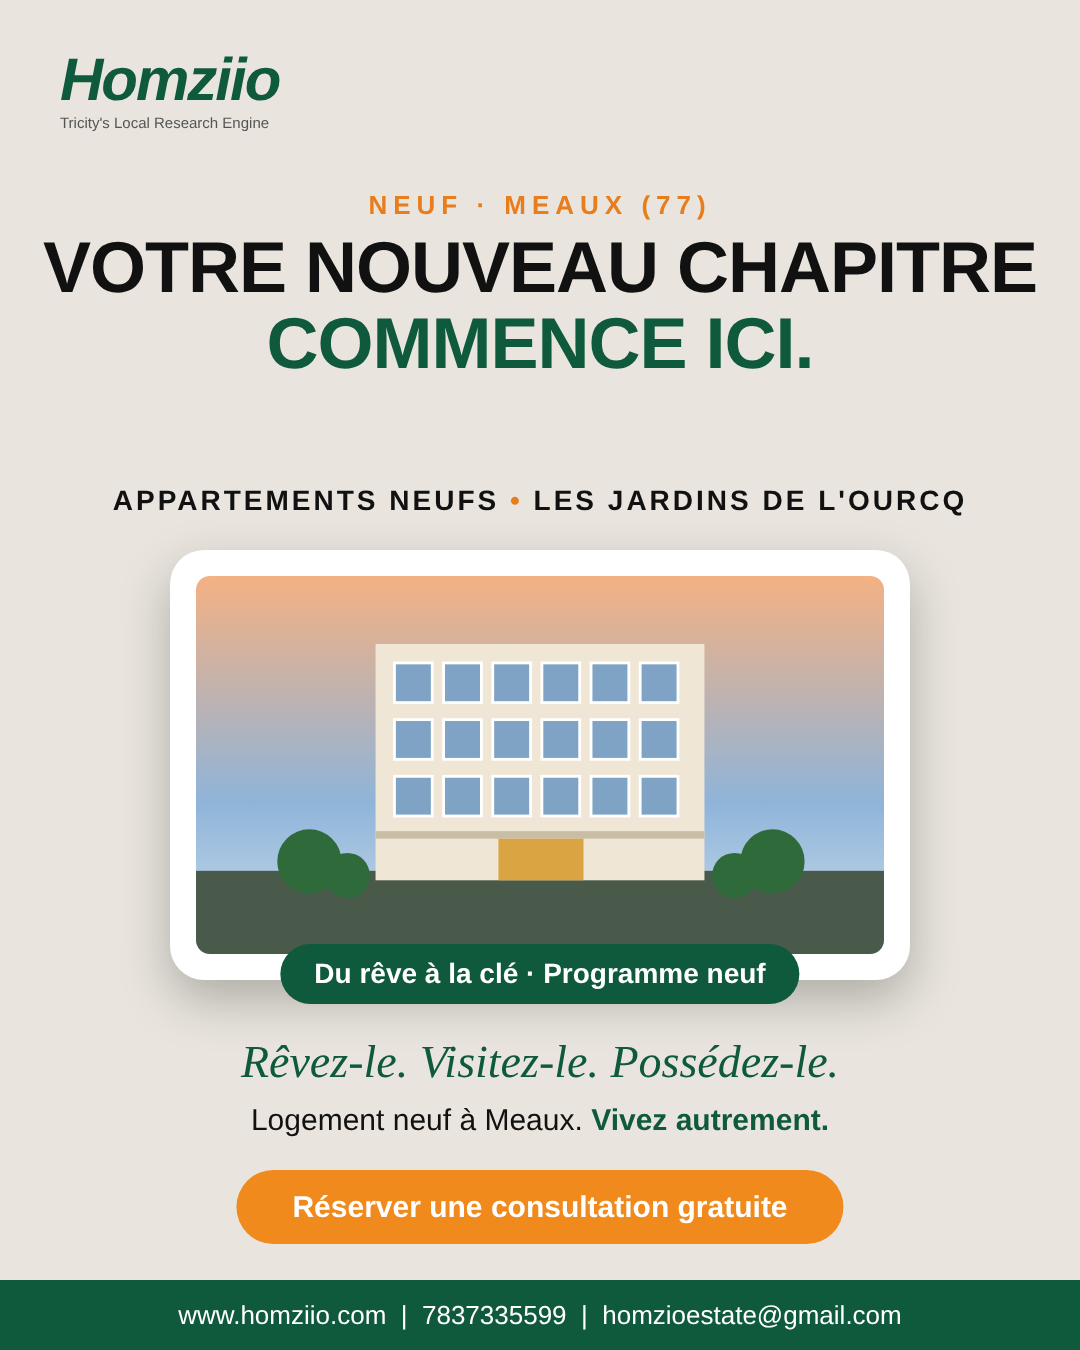
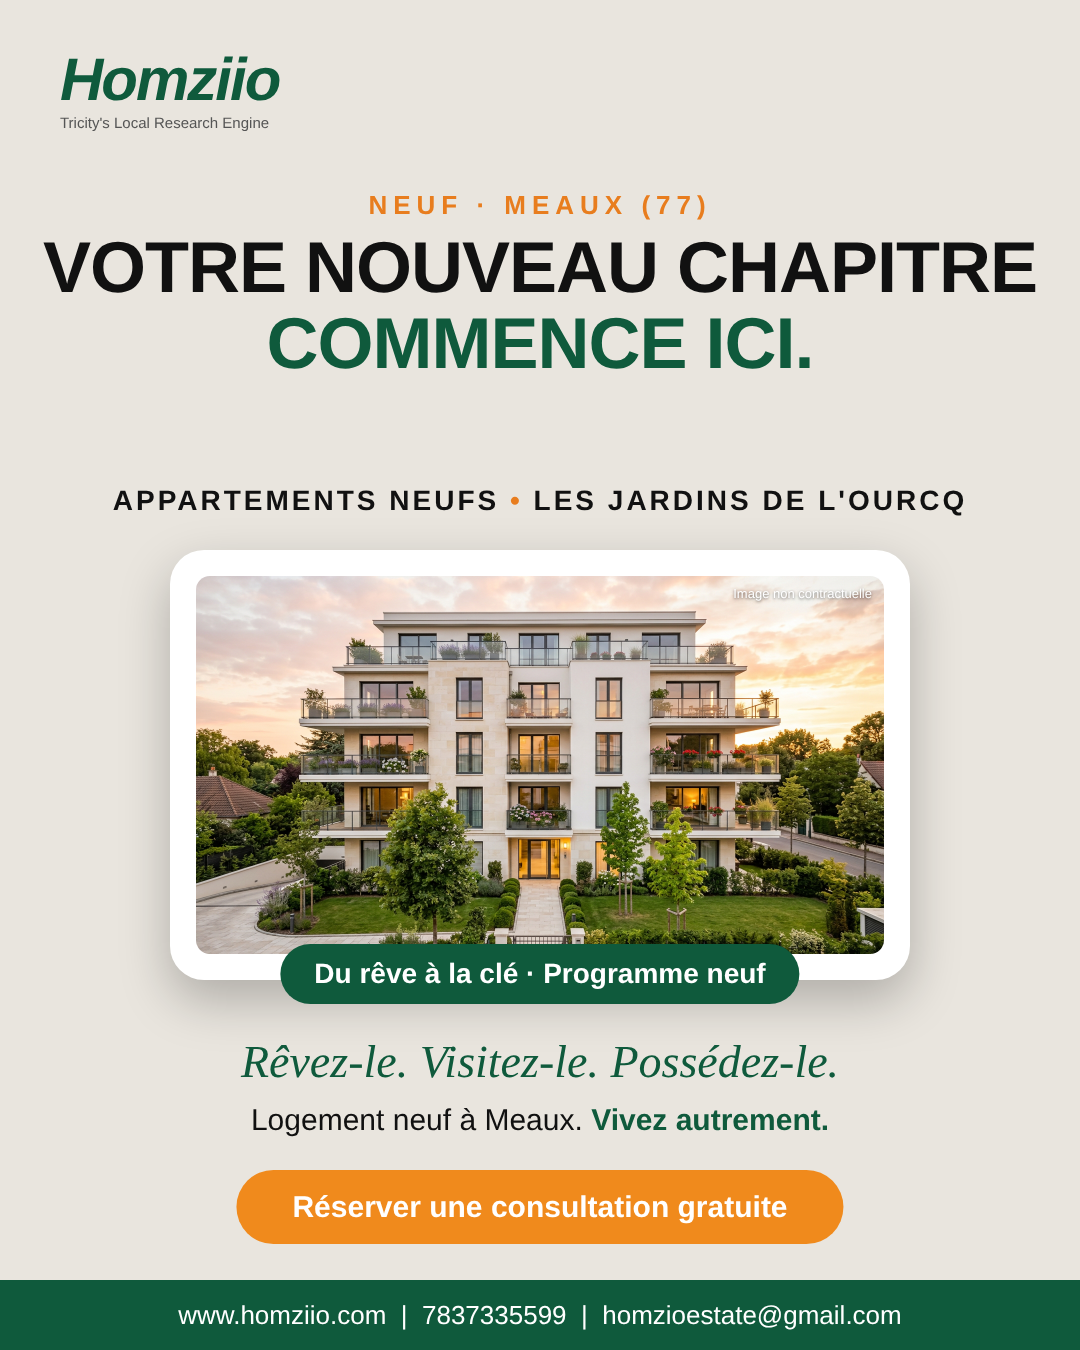
Use Runway-generated building visual in Instagram post
Claude-Session: https://claude.ai/code/session_013GNgWztrTmP26fiPFmaYbg

Changed region(s): [[0.1833, 0.4044, 0.825, 0.7156]]

diff --git a/instagram/post.html b/instagram/post.html
@@ -9,7 +9,8 @@ h1 span{color:#0f5a3c;display:block}
 .sub{position:absolute;top:485px;width:100%;font-size:28px;letter-spacing:3px;font-weight:600}
 .sub b{color:#e87d1e}
 .frame{position:absolute;left:170px;top:550px;width:740px;height:430px;background:#fff;border-radius:34px;box-shadow:0 20px 50px rgba(0,0,0,.25);padding:26px}
-.screen{width:100%;height:100%;border-radius:14px;overflow:hidden;background:linear-gradient(#f4b183,#8fb4d9 60%,#cfe0ee)}
+.screen{width:100%;height:100%;border-radius:14px;overflow:hidden;position:relative}
+.nc{position:absolute;right:12px;top:10px;font-size:13px;color:#fff;text-shadow:0 1px 3px rgba(0,0,0,.6)}
 .tag{position:absolute;left:50%;transform:translateX(-50%);bottom:-24px;background:#0f5a3c;color:#fff;padding:14px 34px;border-radius:40px;font-size:28px;font-weight:700;white-space:nowrap}
 .dream{position:absolute;top:1035px;width:100%;font-size:46px;font-style:italic;color:#0f5a3c;font-family:Georgia,serif}
 .line{position:absolute;top:1100px;width:100%;font-size:30px;line-height:1.3}
@@ -22,17 +23,7 @@ h1 span{color:#0f5a3c;display:block}
 <h1>VOTRE NOUVEAU CHAPITRE<span>COMMENCE ICI.</span></h1>
 <div class="sub">APPARTEMENTS NEUFS <b>•</b> LES JARDINS DE L'OURCQ</div>
 <div class="frame"><div class="screen">
-<svg viewBox="0 0 728 418" width="100%" height="100%" preserveAspectRatio="xMidYMax slice">
-<rect x="0" y="330" width="728" height="88" fill="#4a5a4a"/>
-<rect x="190" y="90" width="348" height="250" fill="#efe6d6"/>
-<g fill="#7fa3c4" stroke="#fff" stroke-width="3">
-<rect x="210" y="110" width="40" height="42"/><rect x="262" y="110" width="40" height="42"/><rect x="314" y="110" width="40" height="42"/><rect x="366" y="110" width="40" height="42"/><rect x="418" y="110" width="40" height="42"/><rect x="470" y="110" width="40" height="42"/>
-<rect x="210" y="170" width="40" height="42"/><rect x="262" y="170" width="40" height="42"/><rect x="314" y="170" width="40" height="42"/><rect x="366" y="170" width="40" height="42"/><rect x="418" y="170" width="40" height="42"/><rect x="470" y="170" width="40" height="42"/>
-<rect x="210" y="230" width="40" height="42"/><rect x="262" y="230" width="40" height="42"/><rect x="314" y="230" width="40" height="42"/><rect x="366" y="230" width="40" height="42"/><rect x="418" y="230" width="40" height="42"/><rect x="470" y="230" width="40" height="42"/></g>
-<rect x="190" y="288" width="348" height="8" fill="#c9bda6"/>
-<rect x="320" y="296" width="90" height="44" fill="#d9a441"/>
-<g fill="#2f6b3a"><circle cx="120" cy="320" r="34"/><circle cx="610" cy="320" r="34"/><circle cx="160" cy="335" r="24"/><circle cx="570" cy="335" r="24"/></g>
-</svg></div><div class="tag">Du rêve à la clé · Programme neuf</div></div>
+<img src="building.png" alt="" style="width:100%;height:100%;object-fit:cover;display:block"><span class="nc">Image non contractuelle</span></div><div class="tag">Du rêve à la clé · Programme neuf</div></div>
 <div class="dream">Rêvez-le. Visitez-le. Possédez-le.</div>
 <div class="line">Logement neuf à Meaux. <b>Vivez autrement.</b></div>
 <div class="cta">Réserver une consultation gratuite</div>
